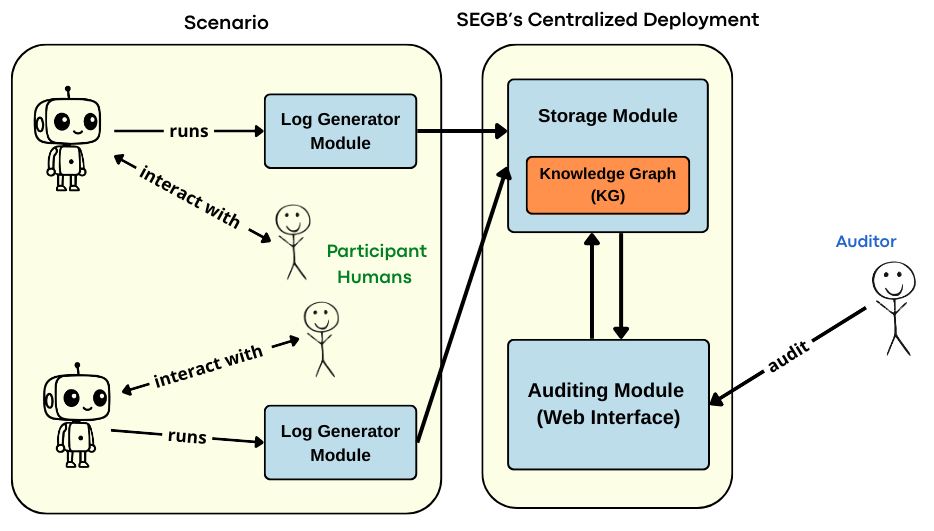
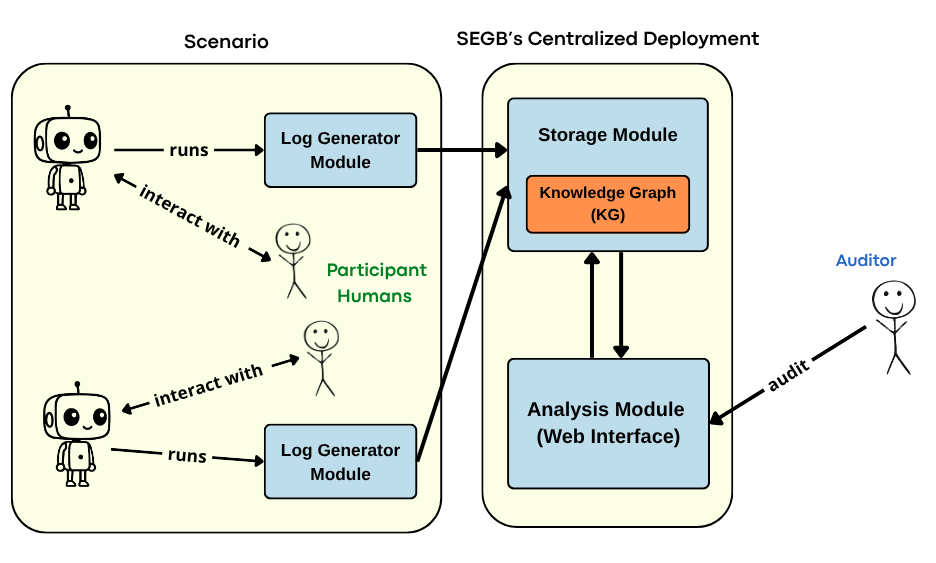
cleaning repo & updating out graph generation scripts to deal with outliers

Changed region(s): [[0.0, 0.0, 0.8694, 0.9944], [0.9004, 0.4218, 0.9936, 0.6629], [0.8694, 0.6026, 0.9004, 0.6328]]

diff --git a/eval/out/final_graph.py b/eval/out/final_graph.py
@@ -1,3 +1,11 @@
+"""
+Final scalability figure for the SEGB evaluation.
+Run after the suite, over single_A3_ingest.csv and single_A3_query.csv.
+
+Two corrections vs. the naive version:
+  1. Drops a known transient outlier (explicit, see OUTLIERS).
+  2. Aligns all three series to the Virtuoso triple count, so ingestion and queries share one x-axis.
+"""
 import csv
 from collections import defaultdict
 import numpy as np
@@ -8,34 +16,63 @@ import matplotlib.pyplot as plt
 INGEST = "single_A3_ingest.csv"
 QUERY  = "single_A3_query.csv"
 
-# Ingesta: p50 en tramos de 5k triples
+# Transient one-off spikes to drop, as (report, kg_triples). Documented for
+# transparency: at ~16k triples temporal_emotions showed p50=56.9 / p95=1095 ms,
+# isolated from its neighbours (~24 ms).
+OUTLIERS = {("temporal_emotions", 16115)}
+
+# --- Virtuoso checkpoints (x-axis shared by every series) ---
+kg_ckpts = sorted(set(int(r["kg_triples"]) for r in csv.DictReader(open(QUERY))))
+
+# --- Ingestion: p50 per local 5k-triple batch, mapped onto the Virtuoso axis ---
 bins = defaultdict(list)
 with open(INGEST) as fh:
     for r in csv.DictReader(fh):
         if r["ok"] not in ("True", "true", "1"):
             continue
         bins[int(r["cumulative_triples"]) // 5000].append(float(r["latency_ms"]))
-ing_x = [(b * 5000 + 2500) / 1000 for b in sorted(bins)]
-ing_y = [float(np.percentile(bins[b], 50)) for b in sorted(bins)]
+ing_x, ing_y = [], []
+for b in sorted(bins):
+    if b < len(kg_ckpts):
+        ing_x.append(kg_ckpts[b] / 1000)
+        ing_y.append(float(np.percentile(bins[b], 50)))
 
-# Consultas: p50 por checkpoint
+# --- Query series (outliers dropped) ---
 q = defaultdict(lambda: {"x": [], "y": []})
 with open(QUERY) as fh:
     for r in csv.DictReader(fh):
-        q[r["report"]]["x"].append(int(r["kg_triples"]) / 1000)
+        kg = int(r["kg_triples"])
+        if (r["report"], kg) in OUTLIERS:
+            continue
+        q[r["report"]]["x"].append(kg / 1000)
         q[r["report"]]["y"].append(float(r["p50_ms"]))
 
-fig, ax = plt.subplots(figsize=(5.2, 3.2))
-ax.plot(ing_x, ing_y, "o-", color="#185FA5", label="Ingestion")
-ax.plot(q["participants"]["x"], q["participants"]["y"], "s--", color="#0F6E56", label="Report (light)")
-ax.plot(q["temporal_emotions"]["x"], q["temporal_emotions"]["y"], "^-", color="#993C1D", label="Report (heavy)")
+# --- Plot ---
+plt.rcParams.update({
+    "font.family": "sans-serif", "font.size": 11, "axes.labelsize": 11,
+    "legend.fontsize": 9.5, "xtick.labelsize": 9.5, "ytick.labelsize": 9.5,
+    "axes.linewidth": 0.9,
+})
+C_ING, C_LIGHT, C_HEAVY = "#2C5F8A", "#3B7A57", "#B5562B"
 
-ax.set_xlabel("KG size (thousand triples)")
-ax.set_ylabel("Latency p50 (ms)")
-ax.set_ylim(bottom=0)
-ax.grid(True, alpha=0.3, linewidth=0.5)
-ax.legend(frameon=False, fontsize=9)
-fig.tight_layout()
+fig, ax = plt.subplots(figsize=(5.4, 3.3))
+ax.plot(ing_x, ing_y, "o-", lw=1.7, ms=6, color=C_ING, mec="white", mew=0.7,
+        label="Ingestion")
+ax.plot(q["participants"]["x"], q["participants"]["y"], "s--", lw=1.7, ms=6,
+        color=C_LIGHT, mec="white", mew=0.7, label="SPARQL query (light)")
+ax.plot(q["temporal_emotions"]["x"], q["temporal_emotions"]["y"], "^-", lw=1.7, ms=7,
+        color=C_HEAVY, mec="white", mew=0.7, label="SPARQL query (heavy)")
+
+ax.set_xlabel("Knowledge graph size (thousand triples)")
+ax.set_ylabel("Latency, p50 (ms)")
+ax.set_ylim(0, 45)
+ax.set_xlim(8, 58)
+ax.spines["top"].set_visible(False)
+ax.spines["right"].set_visible(False)
+ax.grid(axis="y", ls=":", lw=0.6, color="0.7", alpha=0.8)
+ax.tick_params(length=3)
+ax.legend(frameon=False, loc="upper left", handlelength=2.4, borderaxespad=0.3)
+fig.tight_layout(pad=0.5)
 fig.savefig("scalability.pdf")
-fig.savefig("scalability.png", dpi=150)
+fig.savefig("scalability.png", dpi=200)
 print("Saved scalability.pdf / scalability.png")